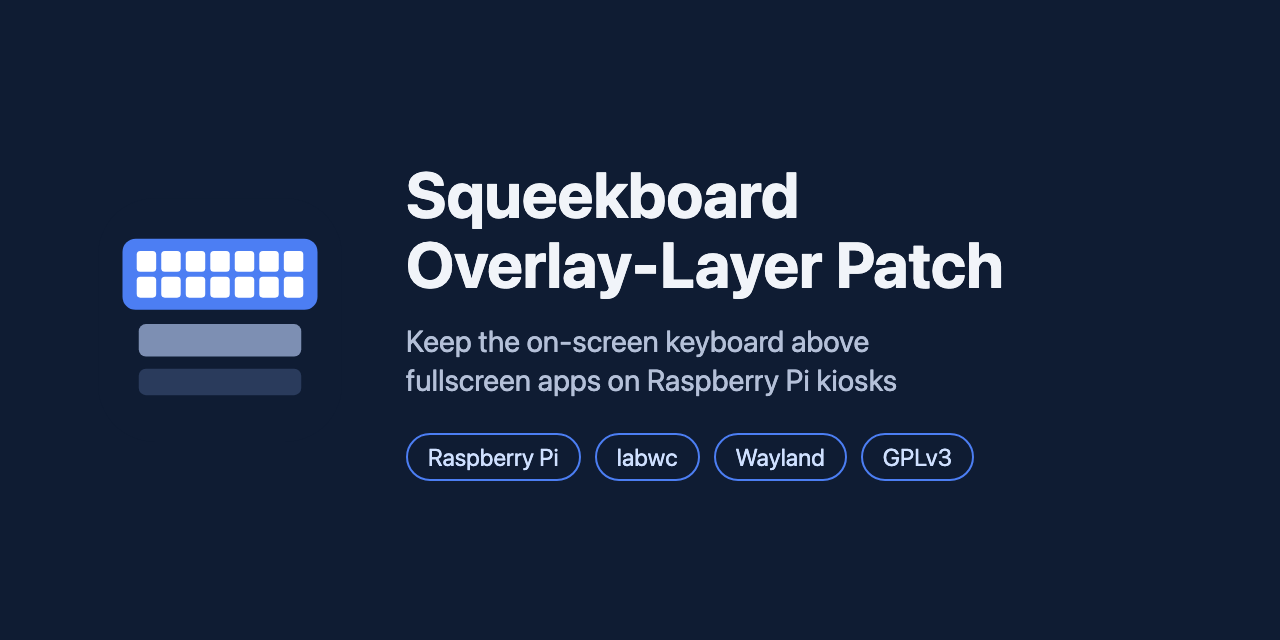
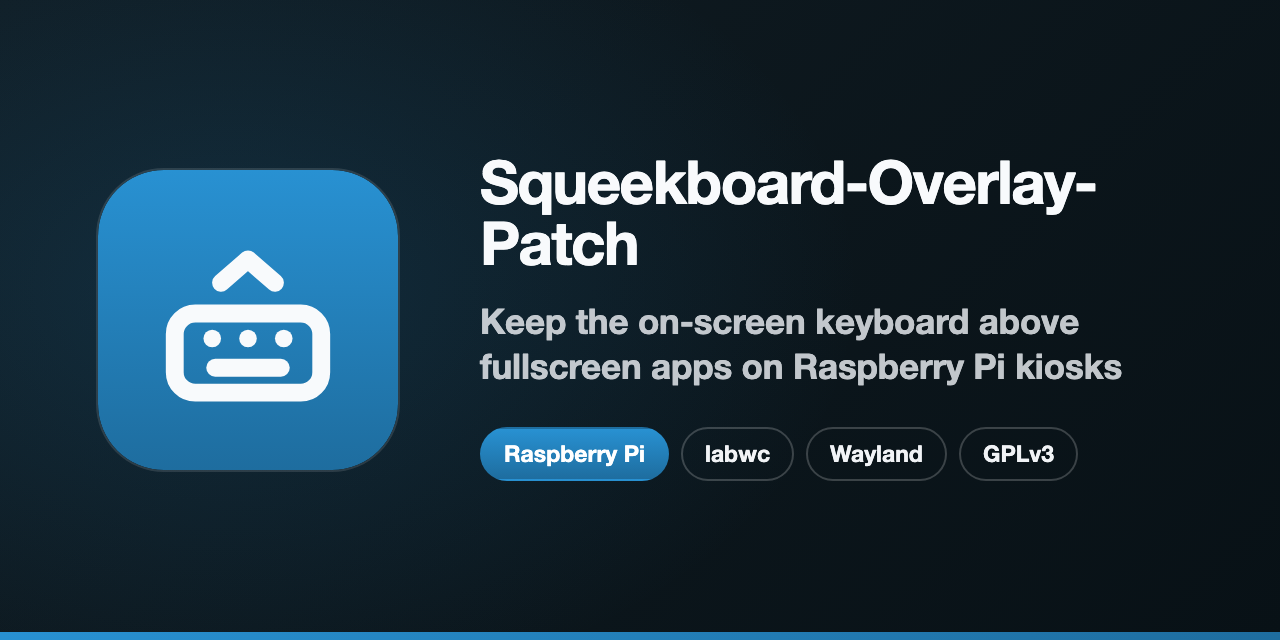
docs: render the social preview with the vendored brand kit

diff --git a/README.md b/README.md
@@ -1,6 +1,6 @@
 <div align="center">
 
-<img src="docs/assets/brand/icon.svg" width="96" alt="Squeekboard Overlay-Layer Patch icon: an on-screen keyboard stacked above two window layers">
+<img src="docs/assets/brand/icon.svg" width="96" alt="Squeekboard Overlay-Layer Patch icon: a keyboard with an upward chevron above it, on a blue rounded tile">
 
 # ⌨ Squeekboard Overlay-Layer Patch
 
@@ -141,7 +141,7 @@ Squeekboard-Overlay-Patch/
 │       └── ci.yml              # 🤖 patch drift, shellcheck, diagrams, docs
 ├── docs/
 │   ├── assets/
-│   │   ├── brand/              # 🎨 icon
+│   │   ├── brand/              # 🎨 icon (SVG and 256 px PNG)
 │   │   ├── architecture-*.svg  # 🗺 generated diagram, light and dark
 │   │   ├── layers-*.svg        # 🗺 generated diagram, light and dark
 │   │   └── social-preview.png  # 🖼 1280x640 card, uploaded by hand
@@ -153,7 +153,7 @@ Squeekboard-Overlay-Patch/
 ├── tools/
 │   ├── check_docs.py           # 🧹 punctuation and index checks
 │   ├── gen_diagram.py          # 🗺 draws the diagrams (--check in CI)
-│   └── social_preview.py       # 🖼 renders the social card
+│   └── brand/                  # 🖼 vendored brand kit, renders the social card
 ├── AGENTS.md                   # 🤖 rules for coding agents
 ├── CLAUDE.md                   # 🤖 imports AGENTS.md
 ├── CONTRIBUTING.md             # 🤝 reports and diagnostics
